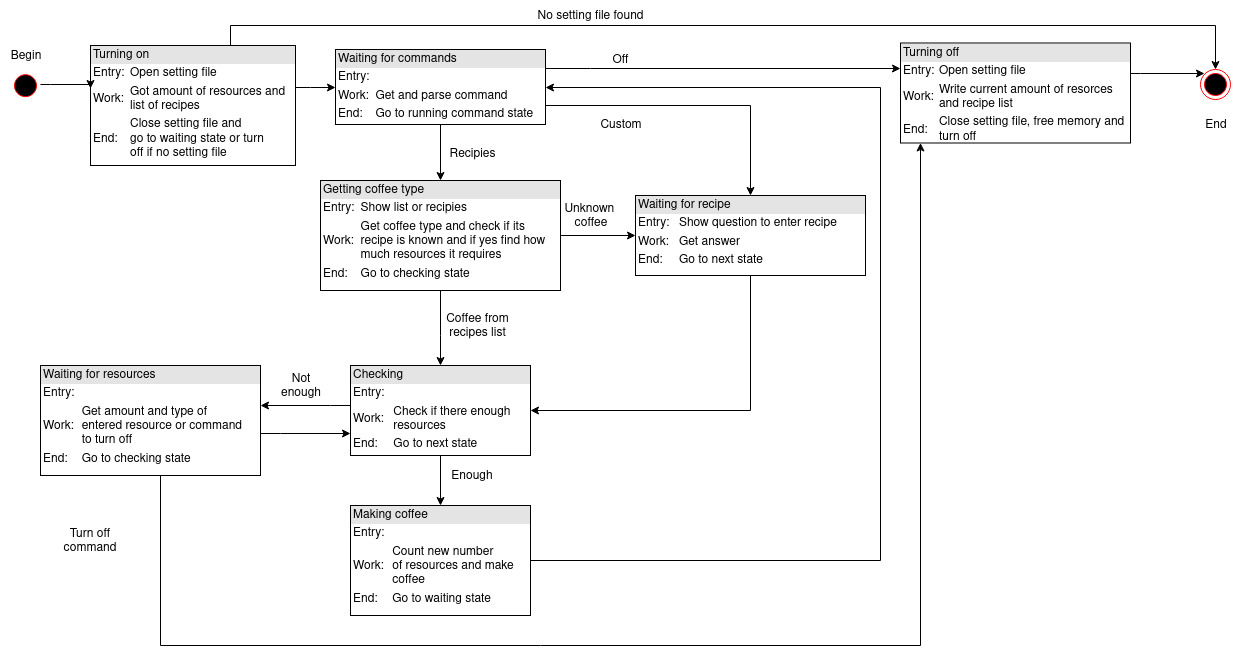
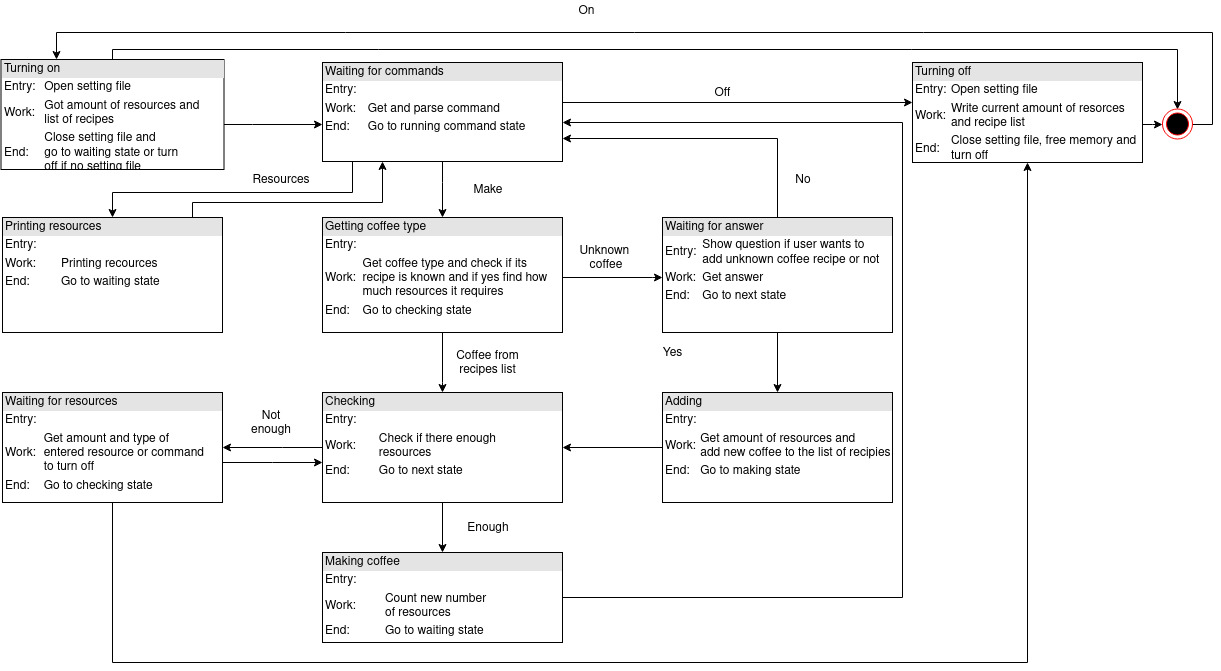
ADD: New state diagram and printing state function

diff --git a/server/state_functions.c b/server/state_functions.c
@@ -6,9 +6,63 @@
 
 extern int state;
 extern int buffer_socket_descriptor;
-extern int water_in_machine;
-extern int milk_in_machine;
-extern int coffee_in_machine;
+
+struct state state_table[NUMBER_OF_STATES] = {
+        // TURNING ON STATE
+        {
+                enter_turning_on_state,
+                process_turning_on_event,
+                exit_turning_on_state
+        },
+        // WAITING FOR COMMANDS STATE
+        {
+                NULL,
+                process_waiting_for_commands_event,
+                exit_waiting_for_commands_state
+        },
+        // GETTING COFFEE TYPE STATE
+        {
+                enter_getting_coffee_type_state,
+                process_getting_coffee_type_event,
+                exit_getting_coffee_type_state
+        },
+        // CHECKING STATE
+        {
+                NULL,
+                process_checking_event,
+                exit_checking_state
+        },
+        // WAITING FOR RESOURCES STATE
+        {
+                NULL,
+                process_waiting_for_resources_event,
+                exit_waiting_for_resources_state
+        },
+        // MAKING COFFEE STATE
+        {
+                NULL,
+                process_making_coffee_event,
+                exit_making_coffee_state
+        },
+        // WAITING FOR RECIPE STATE
+        {
+                enter_waiting_for_recipe_state,
+                process_waiting_for_recipe_event,
+                exit_waiting_for_recipe_state
+        },
+        // TURNING OFF STATE
+        {
+                enter_turning_off_state,
+                process_turning_off_event,
+                exit_turning_off_state
+        },
+        // OFF STATE
+        {
+                NULL,
+                process_off_event,
+                exit_off_state
+        }};
+
 
 struct coffee recipes[5] = {{"ESPRESSO",   50,  5,  0},
                             {"AMERICANO",  150, 15, 0},
@@ -19,11 +73,56 @@ struct coffee recipes[5] = {{"ESPRESSO",   50,  5,  0},
 int current_water = 0;
 int current_milk = 0;
 int current_coffee = 0;
+int water_in_machine = 0;
+int milk_in_machine = 0;
+int coffee_in_machine = 0;
 int lack_of_resources = 0;
 
 char *message;
-
 FILE *setting_file;
+
+void print_state_name (int i) {
+    switch (i) {
+        case 0: {
+            printf("TURNING ON\n");
+            break;
+        }
+        case 1: {
+            printf("WAITING FOR COMMANDS\n");
+            break;
+        }
+        case 2: {
+            printf("GETTING COFFEE TYPE\n");
+            break;
+        }
+        case 3: {
+            printf("CHECKING\n");
+            break;
+        }
+        case 4: {
+            printf("WAITING FOR RESOURCES\n");
+            break;
+        }
+        case 5: {
+            printf("MAKING COFFEE\n");
+            break;
+        }
+        case 6: {
+            printf("WAITING FOR RECIPE\n");
+            break;
+        }
+        case 7: {
+            printf("TURNING OFF\n");
+            break;
+        }
+        case 8: {
+            printf("OFF\n");
+            break;
+        }
+        default:
+            printf("UNKNOWN STATE\n");
+    }
+}
 
 void enter_turning_on_state() {
     setting_file = fopen("settings.txt", "r");
@@ -62,7 +161,7 @@ void exit_waiting_for_commands_state() {
         state = TURNING_OFF;
         return;
     }
-    send_message(buffer_socket_descriptor, "Unknown command\n");
+    send_message(buffer_socket_descriptor, "UNKNOWN COMMAND\n");
     state = WAITING_FOR_COMMANDS;
 }
 
@@ -130,7 +229,7 @@ void exit_making_coffee_state() {
 void process_waiting_for_resources_event() {
     message = "";
     asprintf(&message,
-             "Not enough resources for this coffee\nYou have: %d ml of water, %d g of coffee, %d ml of milk\nCoffee needs: %d ml of water, %d g of coffee, %d ml of milk\n",
+             "Not enough resources for this coffee\nYou have:     %3d ml of water, %3d g of coffee, %3d ml of milk\nCoffee needs: %3d ml of water, %3d g of coffee, %3d ml of milk\n",
              water_in_machine, coffee_in_machine, milk_in_machine, current_water, current_coffee, current_milk);
     send_message(buffer_socket_descriptor, message);
     message = get_message(buffer_socket_descriptor);
@@ -142,10 +241,15 @@ void process_waiting_for_resources_event() {
         coffee_in_machine += amount;
     if (strncmp(message, "MILK", 4) == 0)
         milk_in_machine += amount;
+    if (strncmp(message, "OFF", 3) == 0)
+        current_water = 0;
 }
 
 void exit_waiting_for_resources_state() {
-    state = CHECKING;
+    if (current_water == 0)
+        state = TURNING_OFF;
+    else
+        state = CHECKING;
 }
 
 void enter_turning_off_state() {

diff --git a/server/main.c b/server/main.c
@@ -17,83 +17,9 @@
 #include "state_functions.h"
 
 int buffer_socket_descriptor;
-int water_in_machine = 0;
-int milk_in_machine = 0;
-int coffee_in_machine = 0;
-
-#define SAFE_RUN(func)                   \
-            do {                         \
-                if ((func) != NULL)      \
-                   func();               \
-            } while (0)
-
-struct state {
-    void (*enter)();
-
-    void (*process)();
-
-    void (*exit)();
-};
-
-struct state state_table[NUMBER_OF_STATES] = {
-        // TURNING ON STATE
-        {
-                enter_turning_on_state,
-                process_turning_on_event,
-                exit_turning_on_state
-        },
-        // WAITING FOR COMMANDS ON STATE
-        {
-                NULL,
-                process_waiting_for_commands_event,
-                exit_waiting_for_commands_state
-        },
-        // GETTING COFFEE TYPE STATE
-        {
-                enter_getting_coffee_type_state,
-                process_getting_coffee_type_event,
-                exit_getting_coffee_type_state
-        },
-        // CHECKING STATE
-        {
-                NULL,
-                process_checking_event,
-                exit_checking_state
-        },
-        // WAITING FOR RESOURCES STATE
-        {
-                NULL,
-                process_waiting_for_resources_event,
-                exit_waiting_for_resources_state
-        },
-        // MAKING COFFEE
-        {
-                NULL,
-                process_making_coffee_event,
-                exit_making_coffee_state
-        },
-        // WAITING FOR RECIPE
-        {
-                enter_waiting_for_recipe_state,
-                process_waiting_for_recipe_event,
-                exit_waiting_for_recipe_state
-        },
-        // TURNING OFF STATE
-        {
-                enter_turning_off_state,
-                process_turning_off_event,
-                exit_turning_off_state
-        },
-        // OFF STATE
-        {
-                NULL,
-                process_off_event,
-                exit_off_state
-        }};
-
-
 int state = OFF;
 
+extern struct state state_table[NUMBER_OF_STATES];
 
 int main() {
     int server_descriptor = socket(AF_INET, SOCK_STREAM, 0);;
@@ -130,11 +56,12 @@ int main() {
     }
 
     while (state != -1) {
-        printf("state = %d\n", state);
+        print_state_name(state);
         SAFE_RUN(state_table[state].enter);
         SAFE_RUN(state_table[state].process);
         SAFE_RUN(state_table[state].exit);
     }
+
     close(buffer_socket_descriptor);
     close(server_descriptor);
     return 0;

diff --git a/server/state_functions.h b/server/state_functions.h
@@ -12,12 +12,26 @@
 #define TURNING_OFF 7
 #define OFF 8
 
+#define SAFE_RUN(func)                   \
+            do {                         \
+                if ((func) != NULL)      \
+                   func();               \
+            } while (0)
+
 struct coffee {
     char *name;
     int water;
     int coffee;
     int milk;
 };
+
+struct state {
+    void (*enter)();
+    void (*process)();
+    void (*exit)();
+};
+
+void print_state_name (int i);
 
 void enter_turning_on_state();
 void process_turning_on_event();
